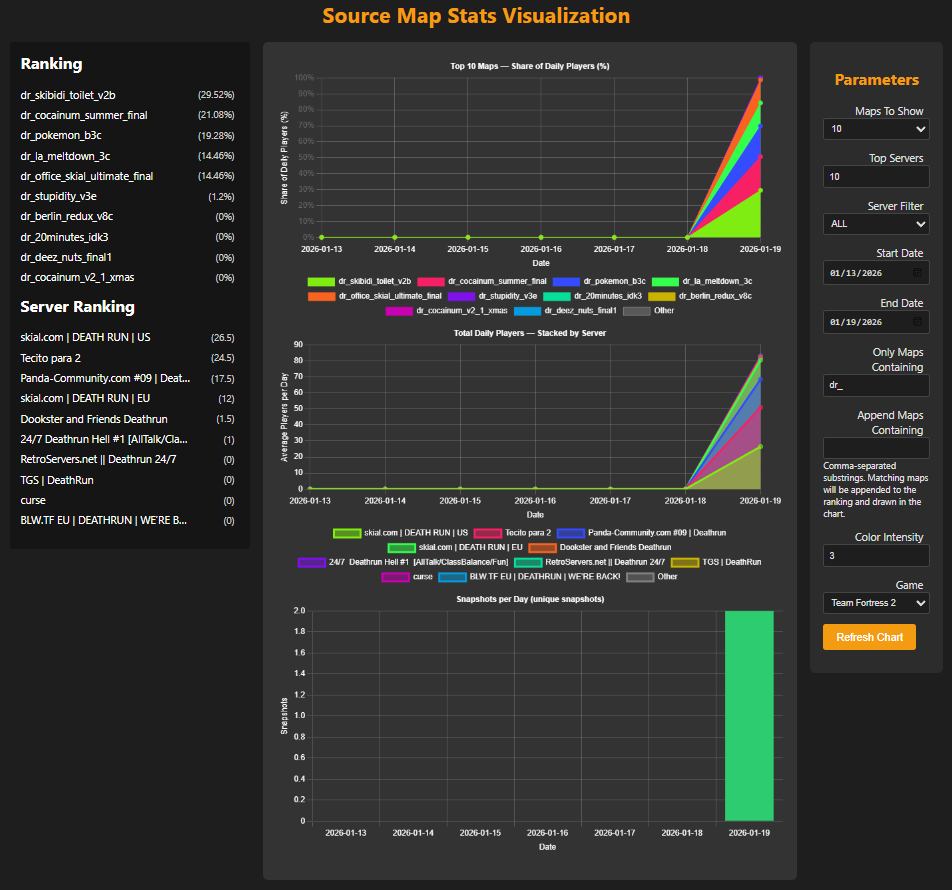
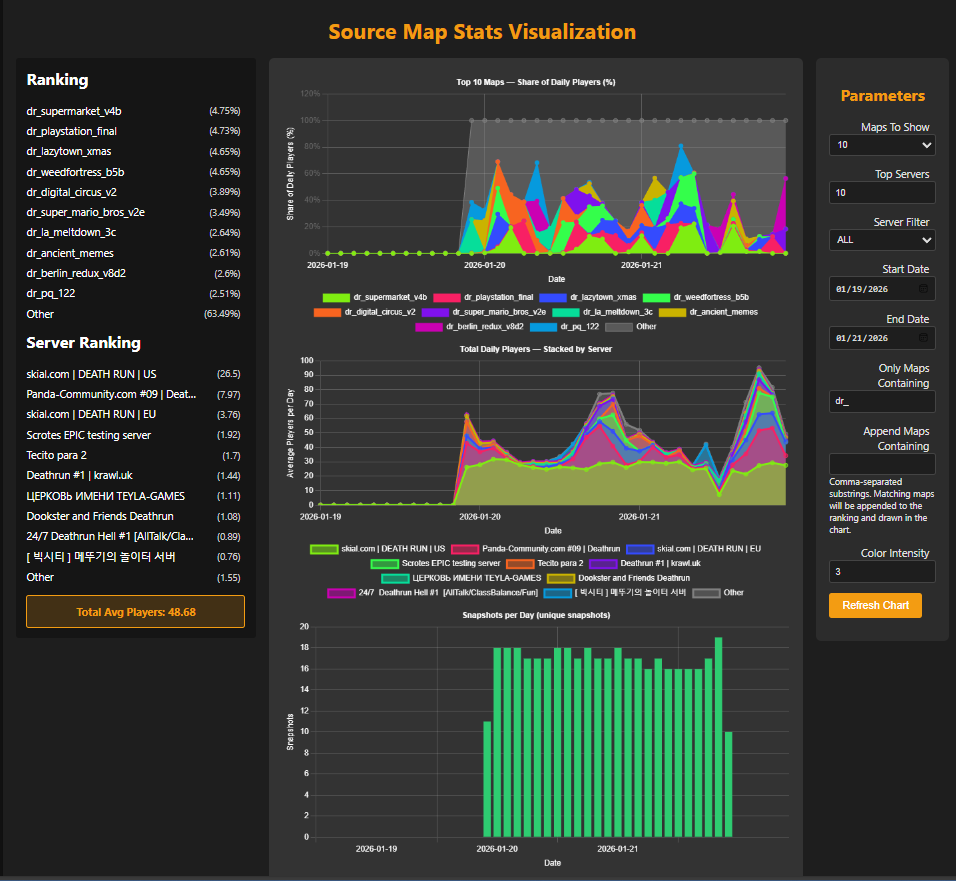
Document admin endpoints

diff --git a/README.md b/README.md
@@ -1,5 +1,7 @@
 # SourceMapStats
 
+[![ko-fi](https://ko-fi.com/img/githubbutton_sm.svg)](https://ko-fi.com/r60dr60d) 
+
 **SourceMapStats** is an end-to-end statistics dashboard for Valve Source / GoldSource games.  
 It periodically queries public game servers, stores per-map player counts in a DuckDB database, and serves an interactive Chart.js dashboard so you can explore which maps are really being played over time.
 
@@ -187,6 +189,14 @@ Access at `/admin` (only from whitelisted IPs). Shows:
 - Total daily requests
 - Unique IPs today
 - Per-IP endpoint breakdown
+
+Using the admin panel API (whitelisted IPs only):
+
+| Method | Path | Description |
+|--------|------|-------------|
+| **GET** | `/api/admin/stats` | JSON request statistics for the day. |
+| **GET** | `/api/admin/check` | Returns `{ is_admin: bool }` for the requester. |
+| **GET** | `/debug-whoami` | Debug endpoint to dump request headers/IPs. |
 
 ---
 
